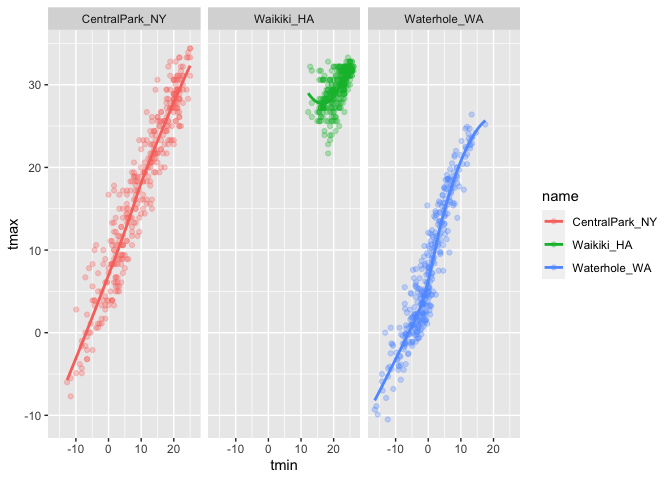
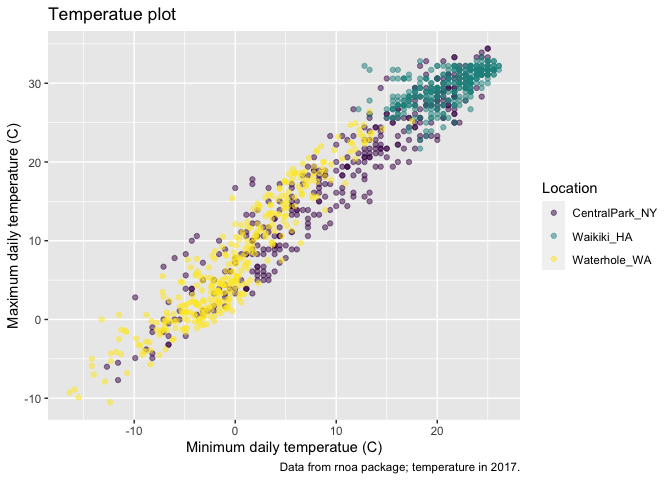
scales

diff --git a/viz_part2-copy.md b/viz_part2-copy.md
@@ -91,3 +91,26 @@ weather_df %>%
     ## Warning: Removed 15 rows containing missing values (geom_point).
 
 ![](viz_part2-copy_files/figure-gfm/unnamed-chunk-4-1.png)<!-- -->
+
+## Scales
+
+start with the same plot
+
+``` r
+weather_df %>%
+  ggplot(aes(x = tmin, y = tmax, color = name)) +
+  geom_point(alpha = .5) +
+  labs(
+    title = "Temperatue plot",
+    x = "Minimum daily temperatue (C)",
+    y = "Maximum daily temperature (C)", 
+    caption = "Data from rnoa package; temperature in 2017."
+  ) +
+  viridis::scale_color_viridis(
+    name = "Location", 
+    discrete = TRUE)
+```
+
+    ## Warning: Removed 15 rows containing missing values (geom_point).
+
+![](viz_part2-copy_files/figure-gfm/unnamed-chunk-5-1.png)<!-- -->
